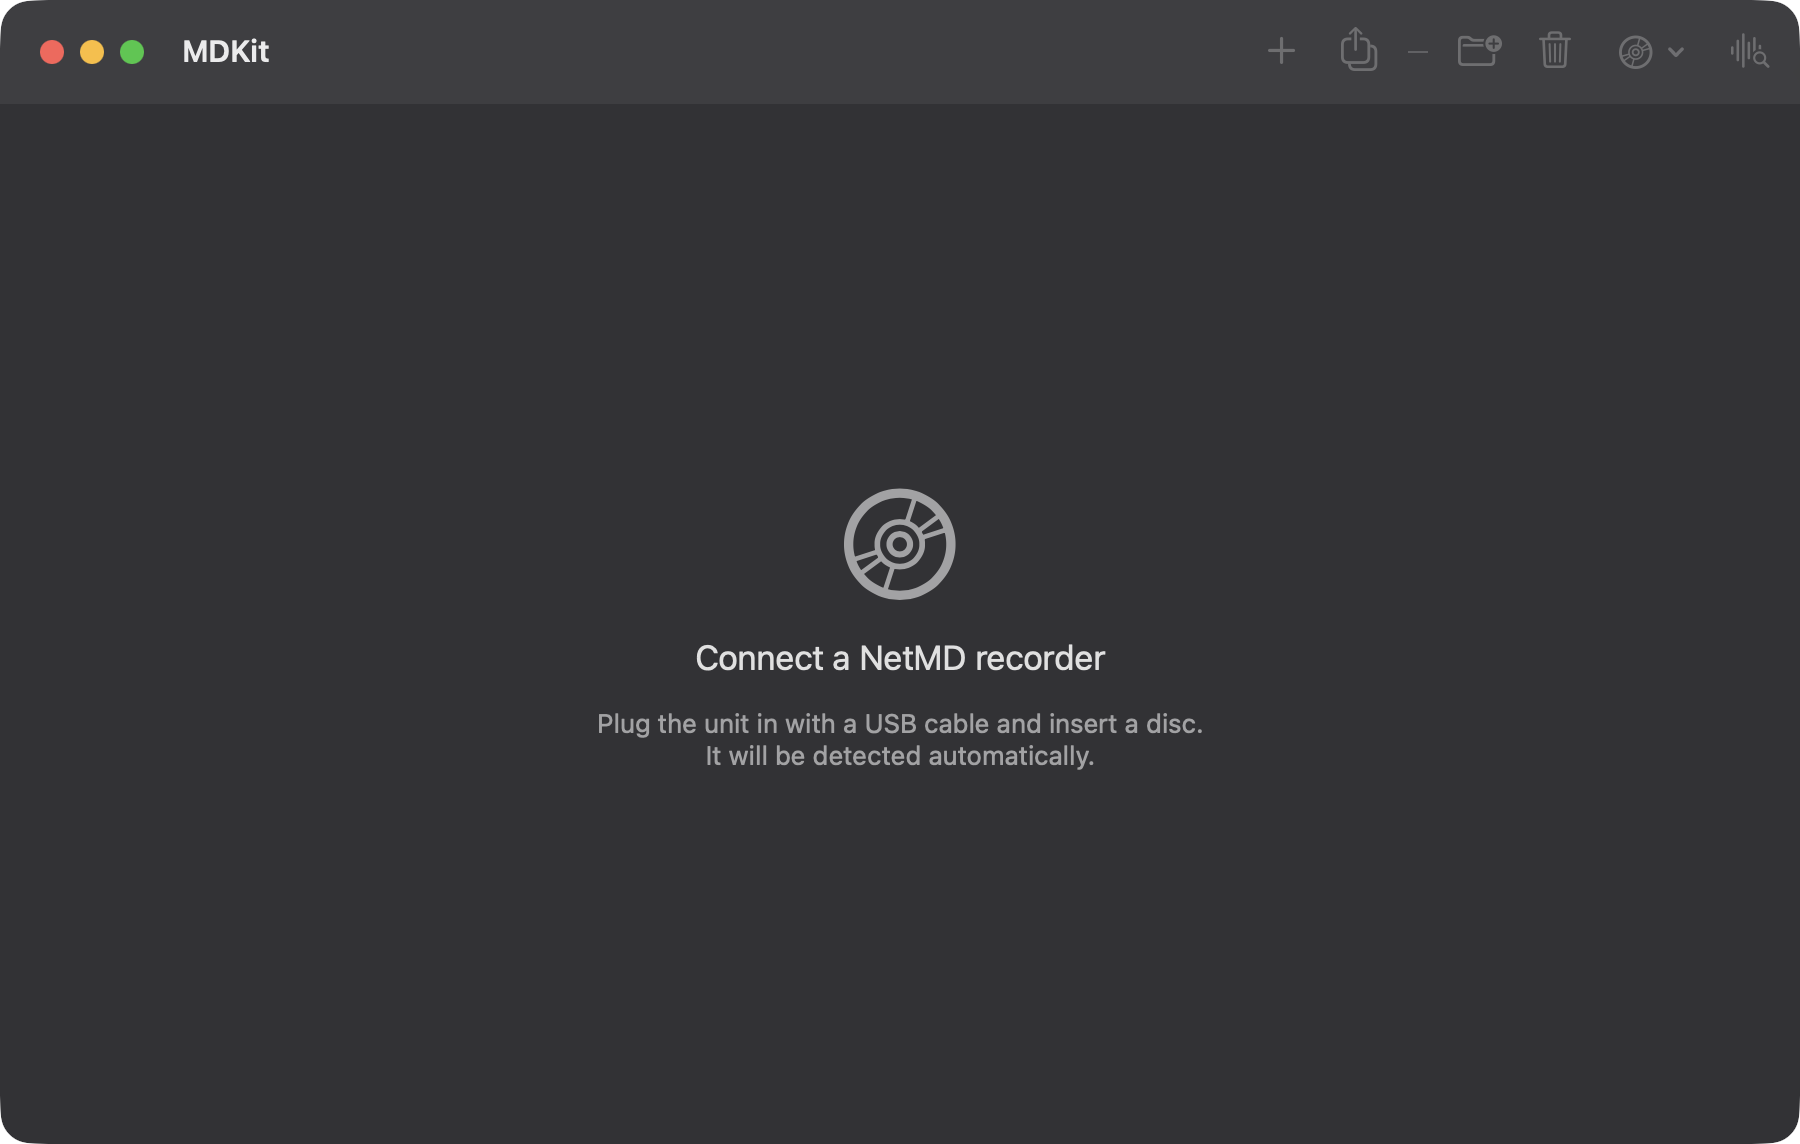
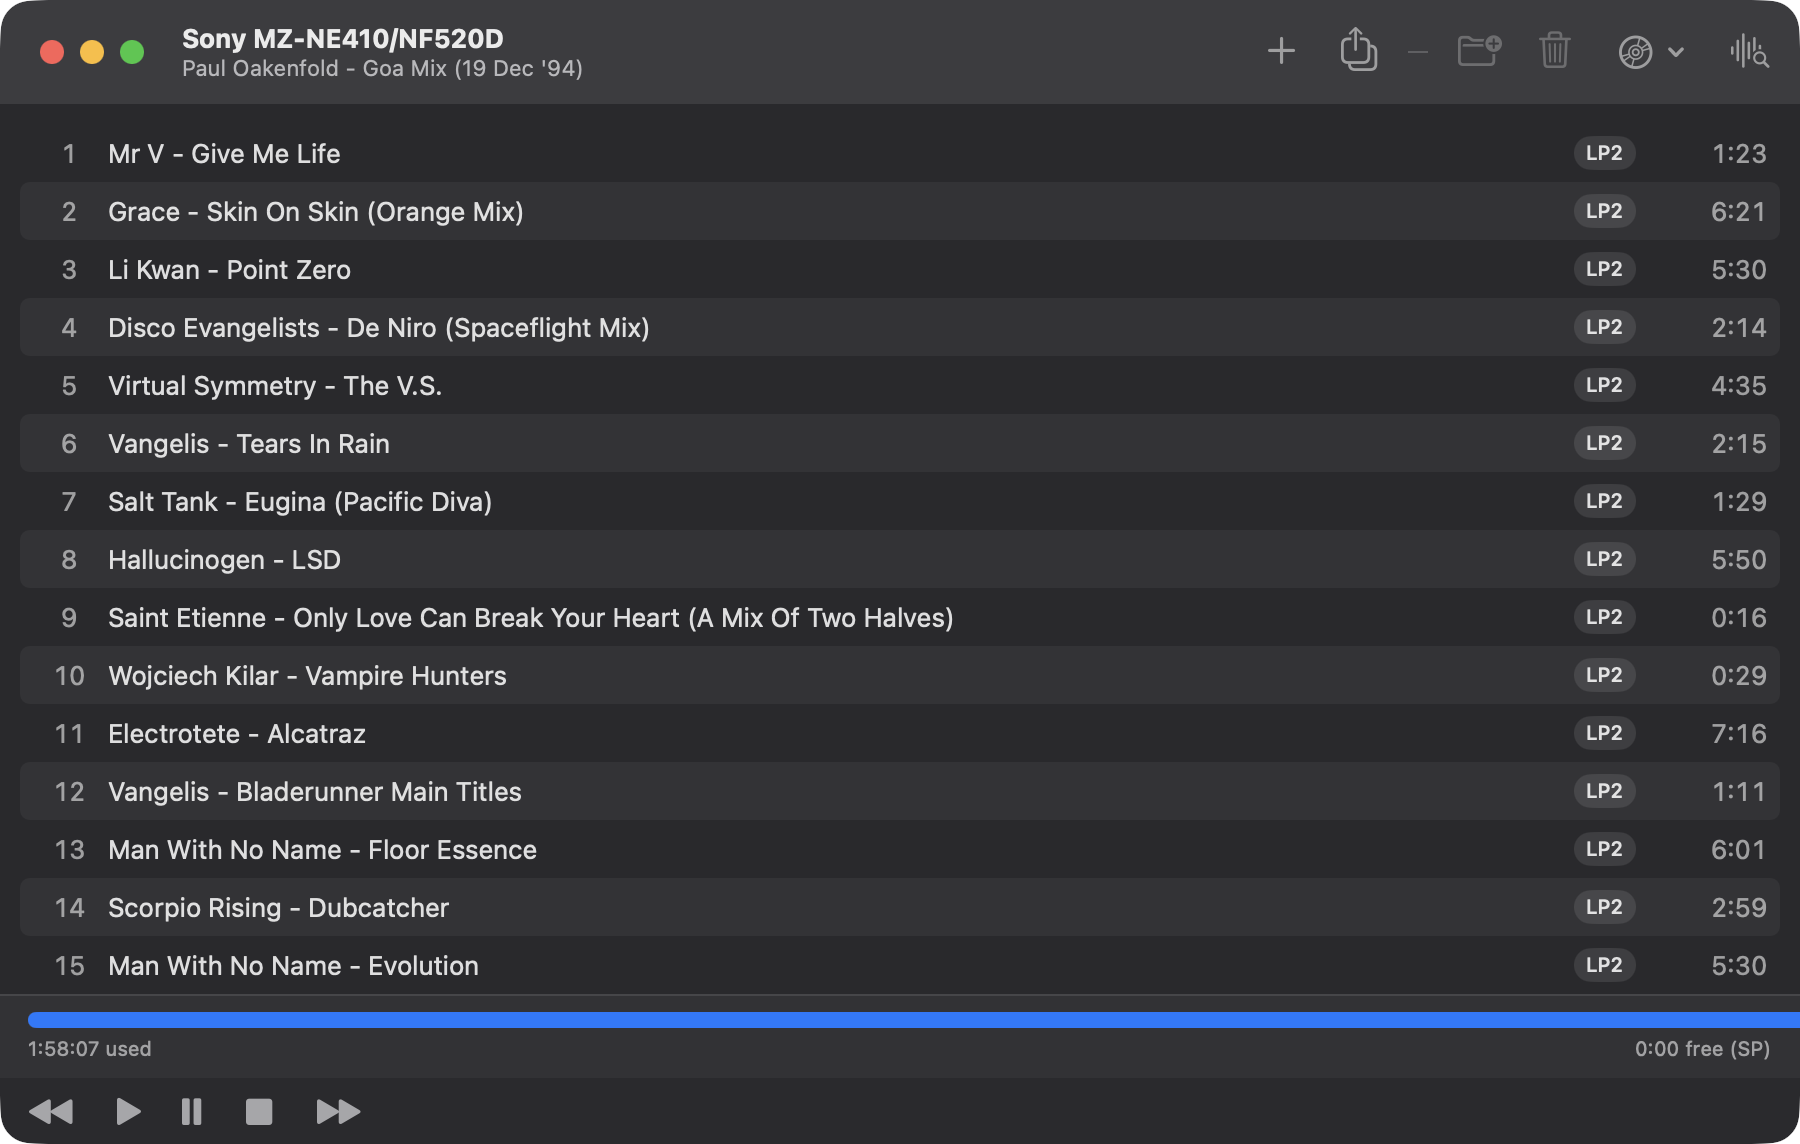
README: screenshot with a connected deck

diff --git a/README.md b/README.md
@@ -10,7 +10,7 @@
 </p>
 
 <p align="center">
-  <img src="docs/screenshot.png" width="640" alt="MDKit waiting for a NetMD recorder">
+  <img src="docs/screenshot.png" width="640" alt="MDKit showing a disc on a connected Sony MZ-NE410">
 </p>
 
 ---
